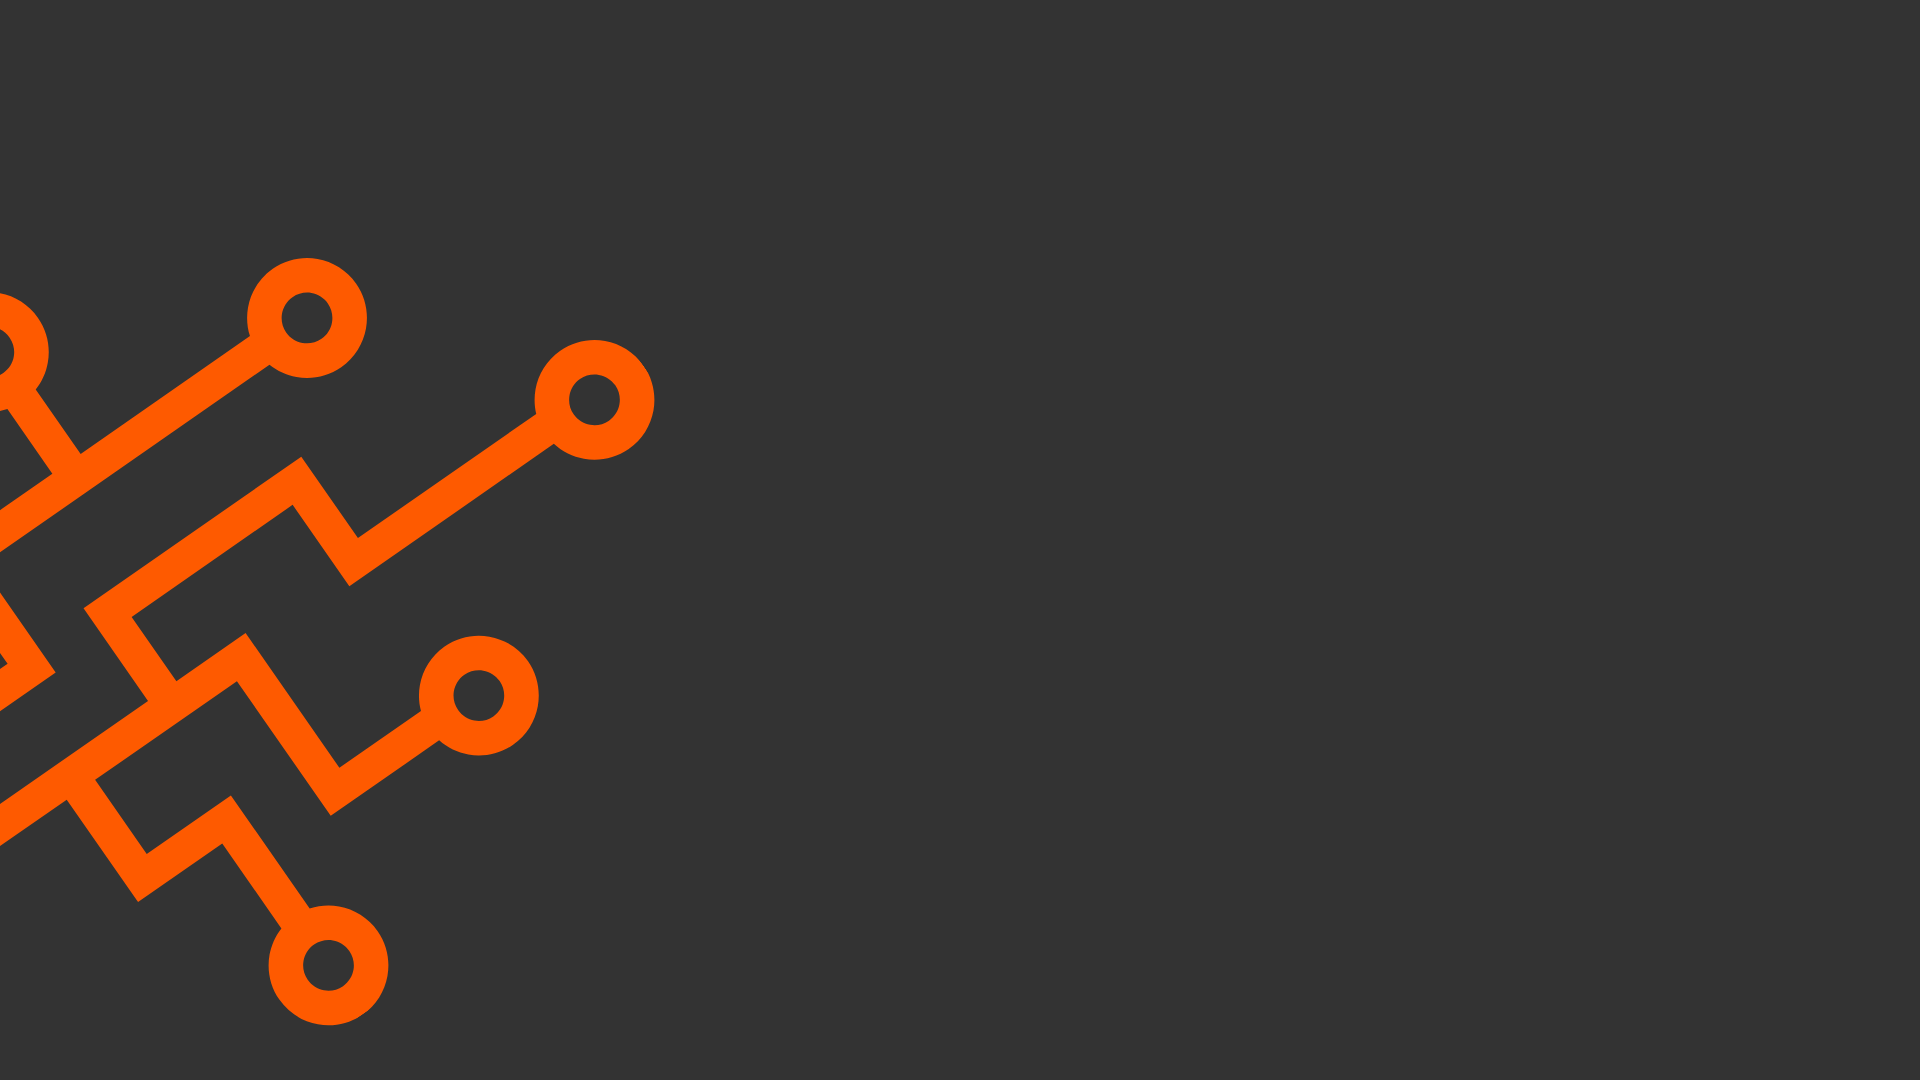
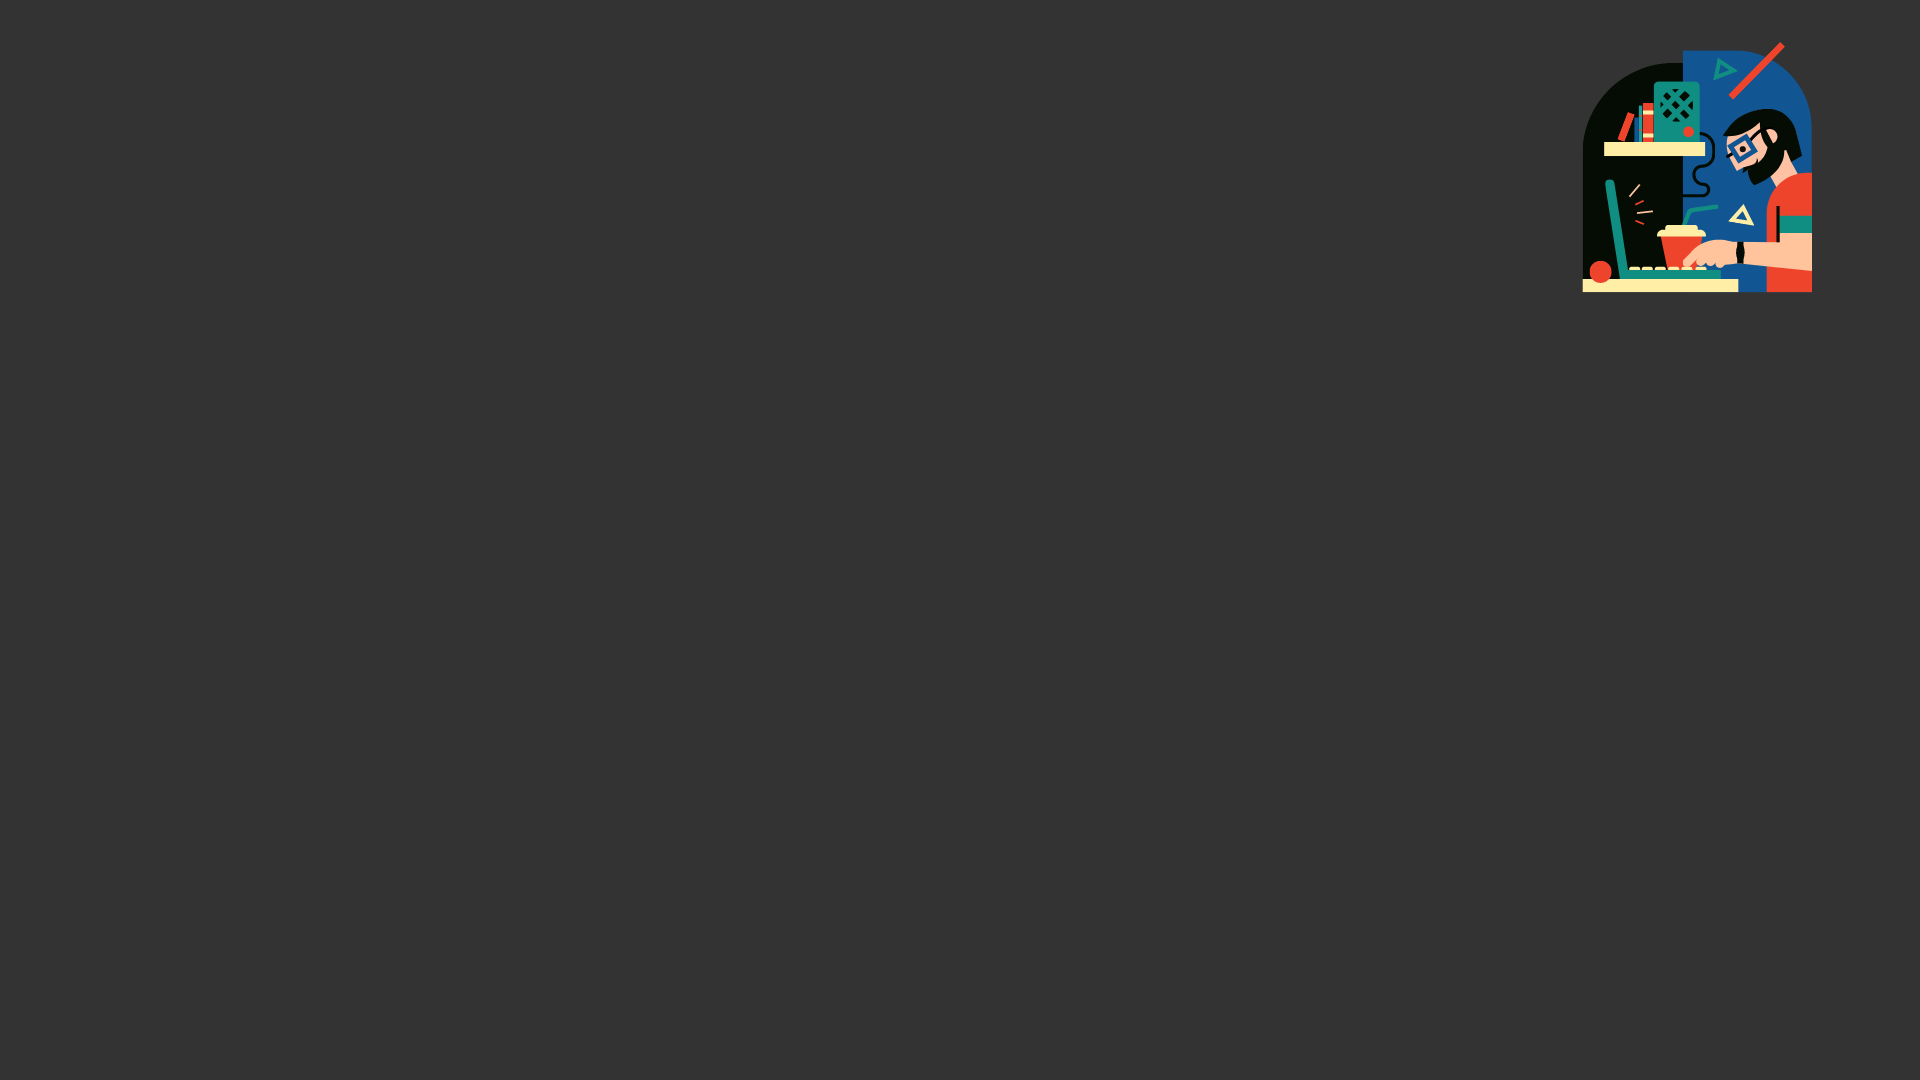
bg removed

Changed region(s): [[0.0, 0.3056, 0.3438, 0.9472], [0.8125, 0.0306, 0.9688, 0.275], [0.0, 0.2444, 0.2188, 0.5194]]

diff --git a/index.html b/index.html
@@ -40,7 +40,7 @@
         </div>
     </div>
     <!--Section Two-->
-    <div class="container-fluid bg-dark text-light projects-bg">
+    <div class="container-fluid bg-dark text-light">
         <div class="row p-5">
             <div class="col-12 text-center p-4">
                 <p class="display-5 text-uppercase"><span class="main-color">Proj</span><span class="secondary-color">ects</span></p>
